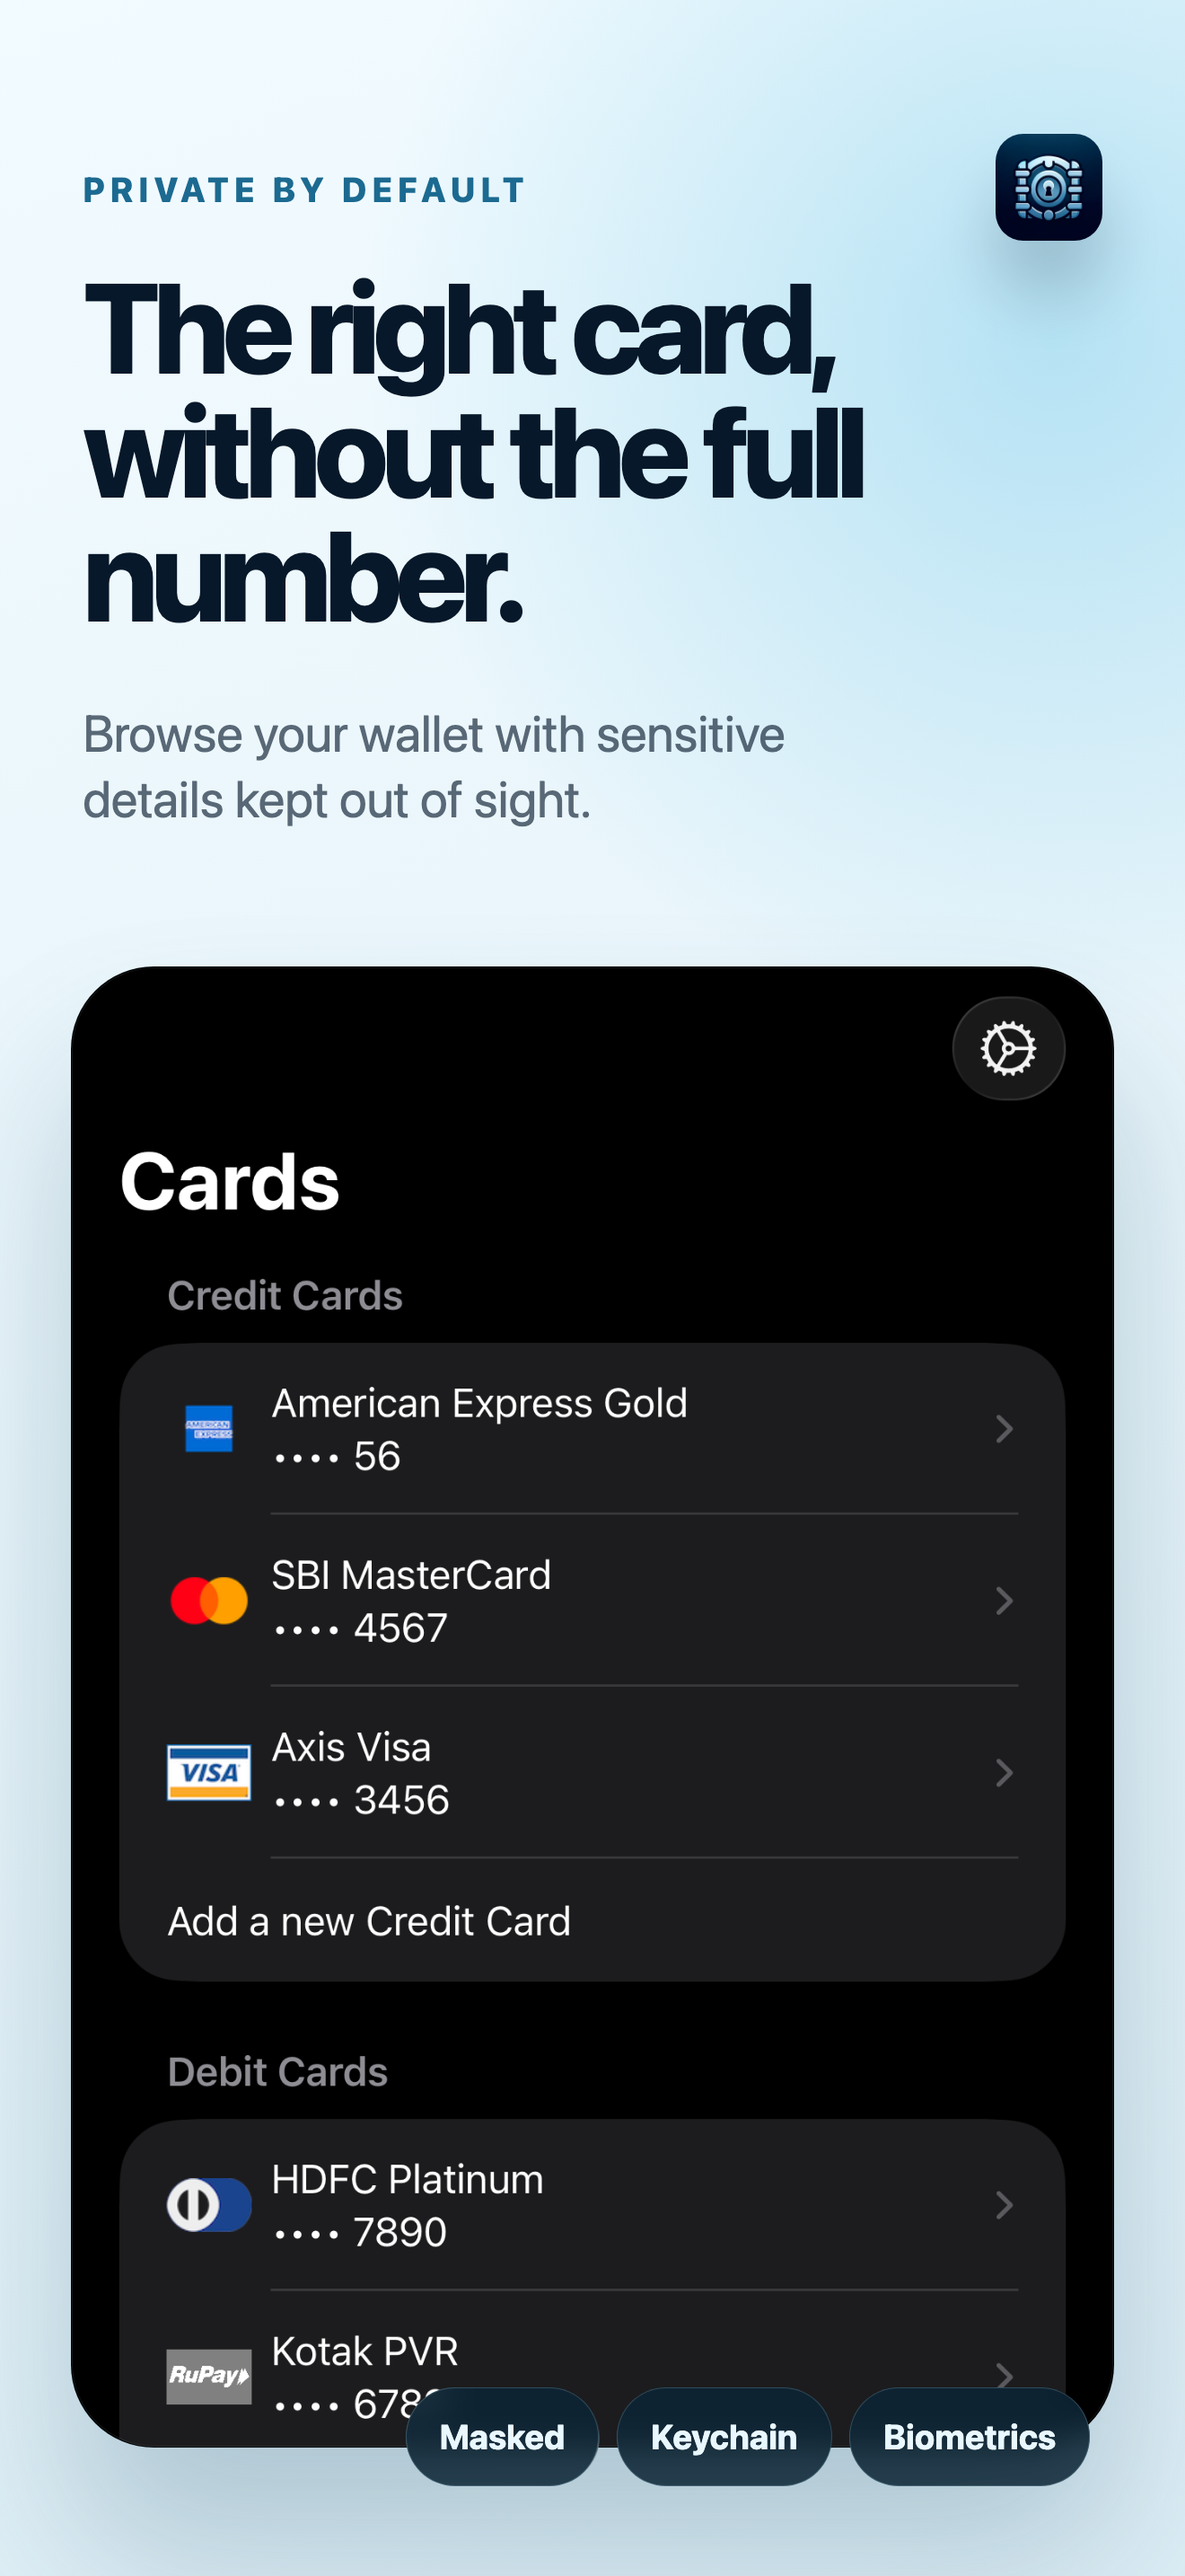
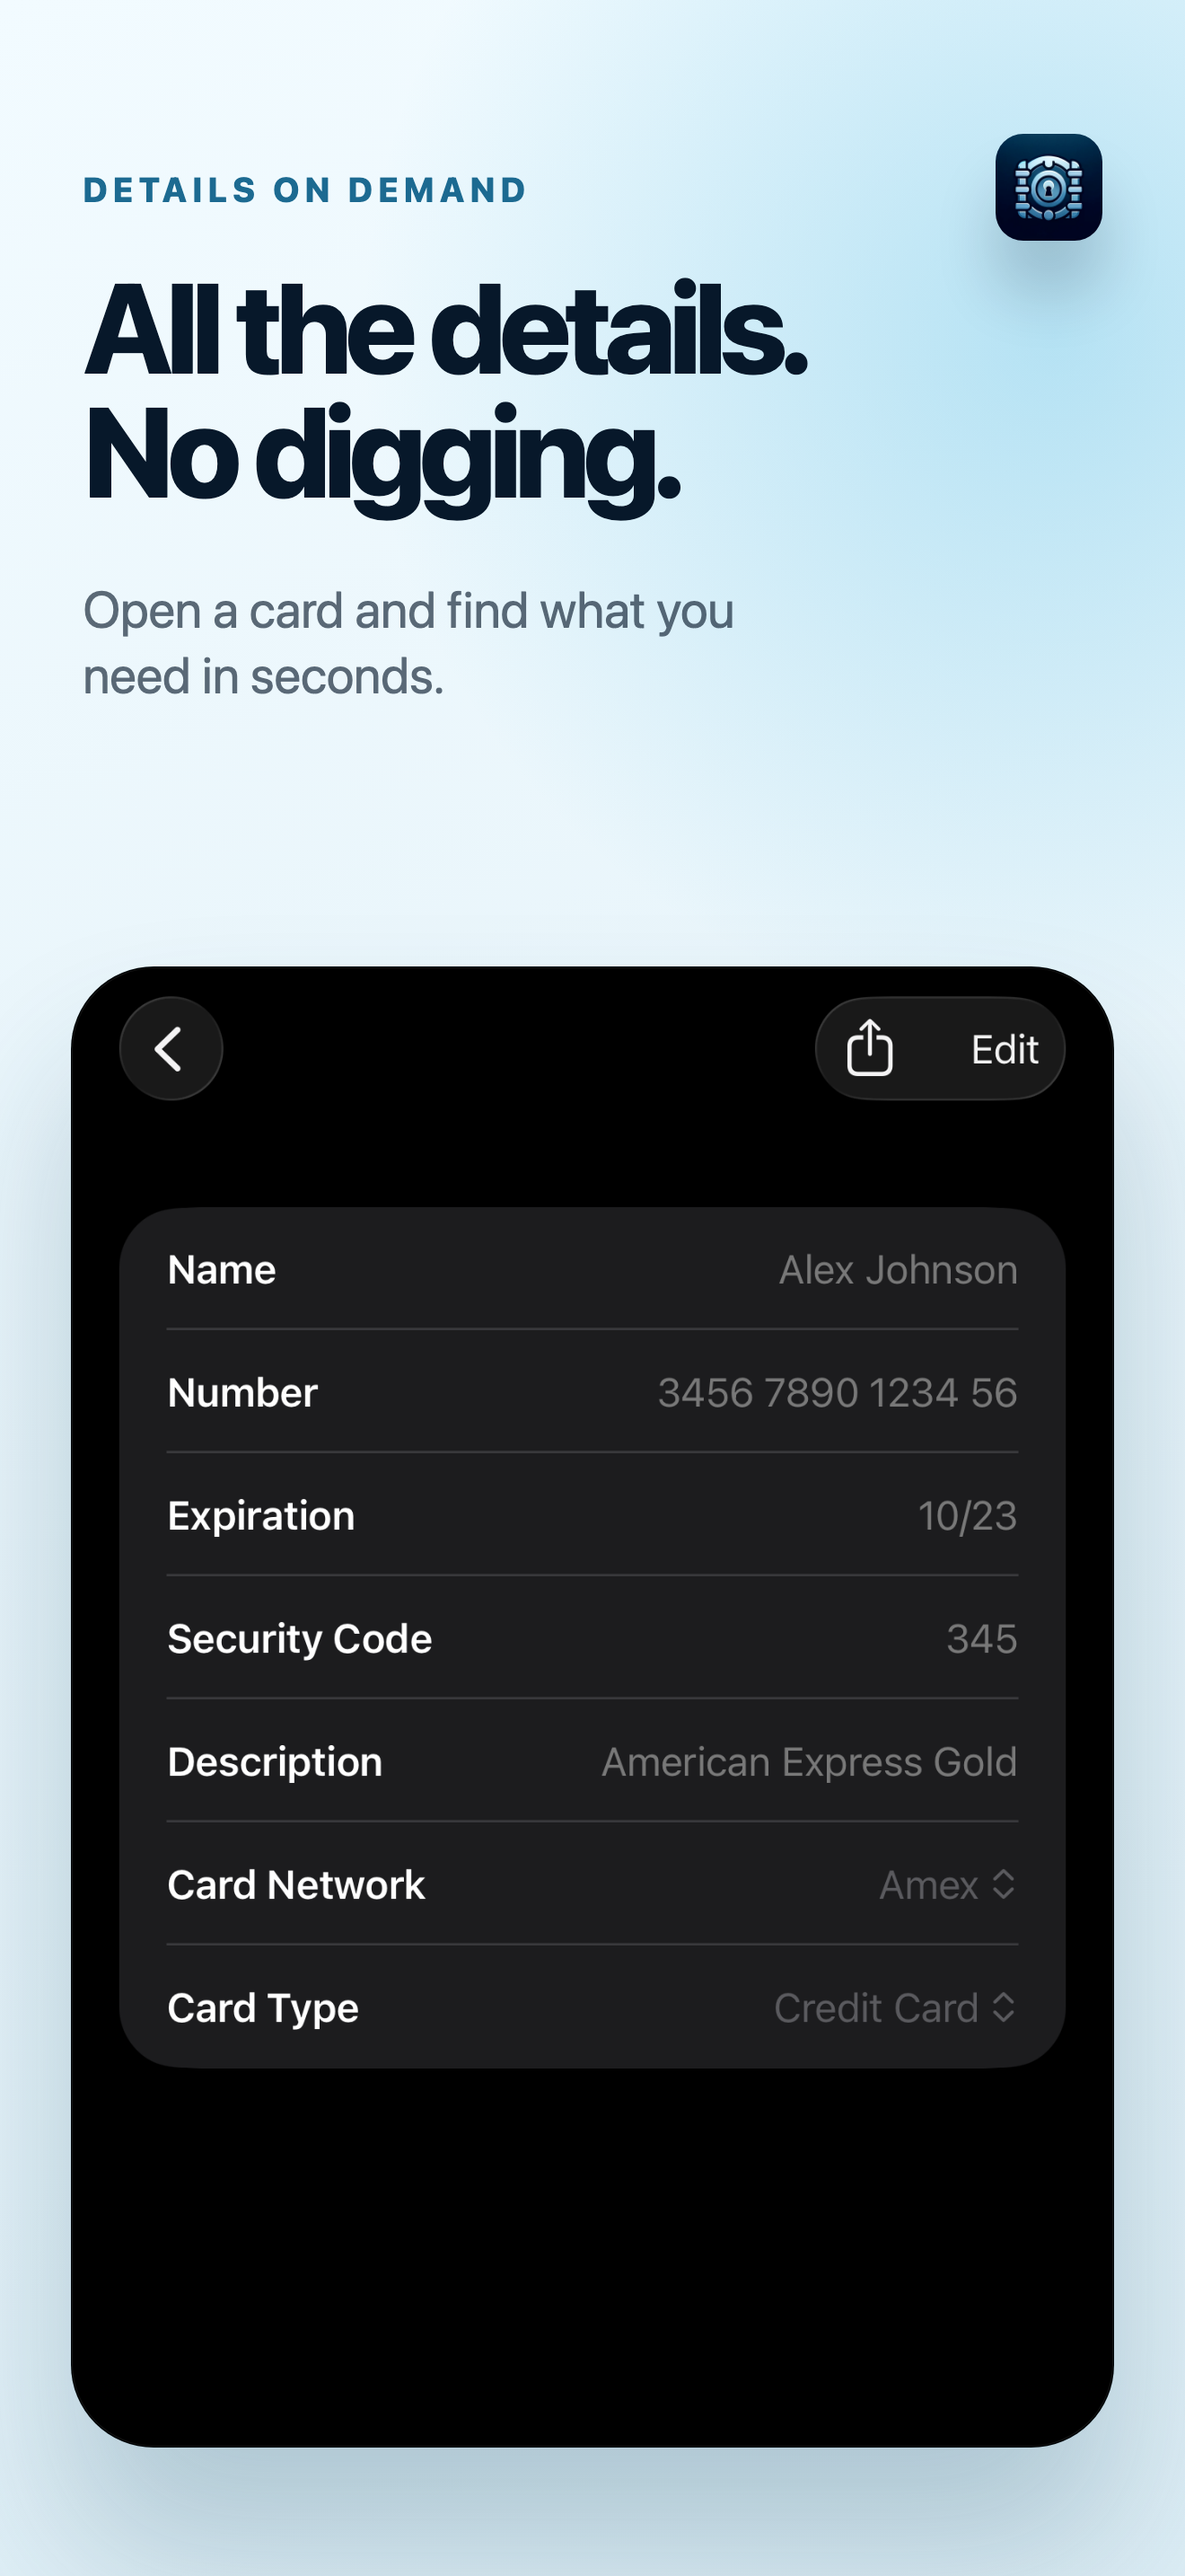
Use distinct screens in Koubou concepts

diff --git a/AppStore/Screenshots/templates/03_wallet_without_bulk.html b/AppStore/Screenshots/templates/03_wallet_without_bulk.html
@@ -47,37 +47,18 @@
       font-size: 4.3vw;
       line-height: 1.28;
     }
-    .categories {
-      position: absolute;
-      z-index: 6;
-      top: 31%;
-      left: 7%;
-      right: 7%;
-      display: flex;
-      flex-wrap: wrap;
-      gap: 1.4vw;
-    }
-    .categories span {
-      padding: 1.05vh 2.8vw;
-      border: 1px solid rgba(159, 219, 244, .20);
-      border-radius: 999px;
-      color: rgba(236, 249, 255, .88);
-      background: rgba(82, 176, 214, .10);
-      font-size: 3vw;
-      font-weight: 680;
-    }
     .device {
       position: absolute;
       z-index: 3;
-      left: 18vw;
-      bottom: -21vh;
-      width: 74vw;
-      height: 77vh;
+      left: 12vw;
+      bottom: -6vh;
+      width: 82vw;
+      height: 68vh;
       padding: 1.05vw;
       overflow: hidden;
       border: 1px solid rgba(171, 224, 247, .25);
       border-radius: 8.4vw;
-      transform: rotate(5deg);
+      transform: rotate(3deg);
       background: #030508;
       box-shadow: 0 4vh 14vw rgba(0, 0, 0, .56);
     }
@@ -107,12 +88,9 @@
     <h1 data-kou-id="headline" data-kou-role="headline">{{headline}}</h1>
     <p data-kou-id="subtitle" data-kou-role="supporting">{{subtitle}}</p>
   </div>
-  <div class="categories" aria-hidden="true">
-    <span>Credit</span><span>Debit</span><span>ID</span><span>Membership</span><span>Loyalty</span>
-  </div>
   <div class="glow"></div>
   <div class="device">
-    <img data-kou-id="device" data-kou-role="device" src="{{app_screenshot}}" alt="Card categories in Holder">
+    <img data-kou-id="device" data-kou-role="device" src="{{app_screenshot}}" alt="Privacy settings in Holder">
   </div>
 </body>
 </html>

diff --git a/AppStore/Screenshots/templates/02_masked_at_a_glance.html b/AppStore/Screenshots/templates/02_masked_at_a_glance.html
@@ -80,24 +80,6 @@
       box-shadow: inset 0 0 0 1px rgba(255, 255, 255, .08);
       pointer-events: none;
     }
-    .signals {
-      position: absolute;
-      z-index: 5;
-      right: 8vw;
-      bottom: 3.5vh;
-      display: flex;
-      gap: 1.5vw;
-    }
-    .signals span {
-      padding: 1.1vh 2.8vw;
-      border: 1px solid rgba(169, 224, 247, .22);
-      border-radius: 999px;
-      color: #e9f8ff;
-      background: rgba(12, 36, 52, .86);
-      font-size: 2.9vw;
-      font-weight: 720;
-      backdrop-filter: blur(18px);
-    }
   </style>
 </head>
 <body>
@@ -108,8 +90,7 @@
     <p data-kou-id="subtitle" data-kou-role="supporting">{{subtitle}}</p>
   </div>
   <div class="focus-card">
-    <img data-kou-id="device" data-kou-role="device" src="{{app_screenshot}}" alt="Masked card numbers in Holder">
+    <img data-kou-id="device" data-kou-role="device" src="{{app_screenshot}}" alt="Card details in Holder">
   </div>
-  <div class="signals" aria-hidden="true"><span>Masked</span><span>Keychain</span><span>Biometrics</span></div>
 </body>
 </html>

diff --git a/AppStore/Screenshots/README.md b/AppStore/Screenshots/README.md
@@ -27,9 +27,9 @@ Koubou writes the PNGs and layout reports to `output/`.
 downloaded from App Store Connect here because those already include marketing
 artwork and can create a nested, distorted device presentation.
 
-The current `en-US/home.png` is a real iPhone 17 Pro Max Debug capture. Its
-cards come from Holder's compile-time Debug fixture and all visible numbers are
-masked. No production or personal card data is present.
+The current `en-US` assets are real iPhone 17 Pro Max Debug captures of the
+card list, a card detail, and Settings. The cards come from Holder's
+compile-time Debug fixture. No production or personal card data is present.
 
 ## Deliberately deferred
 
